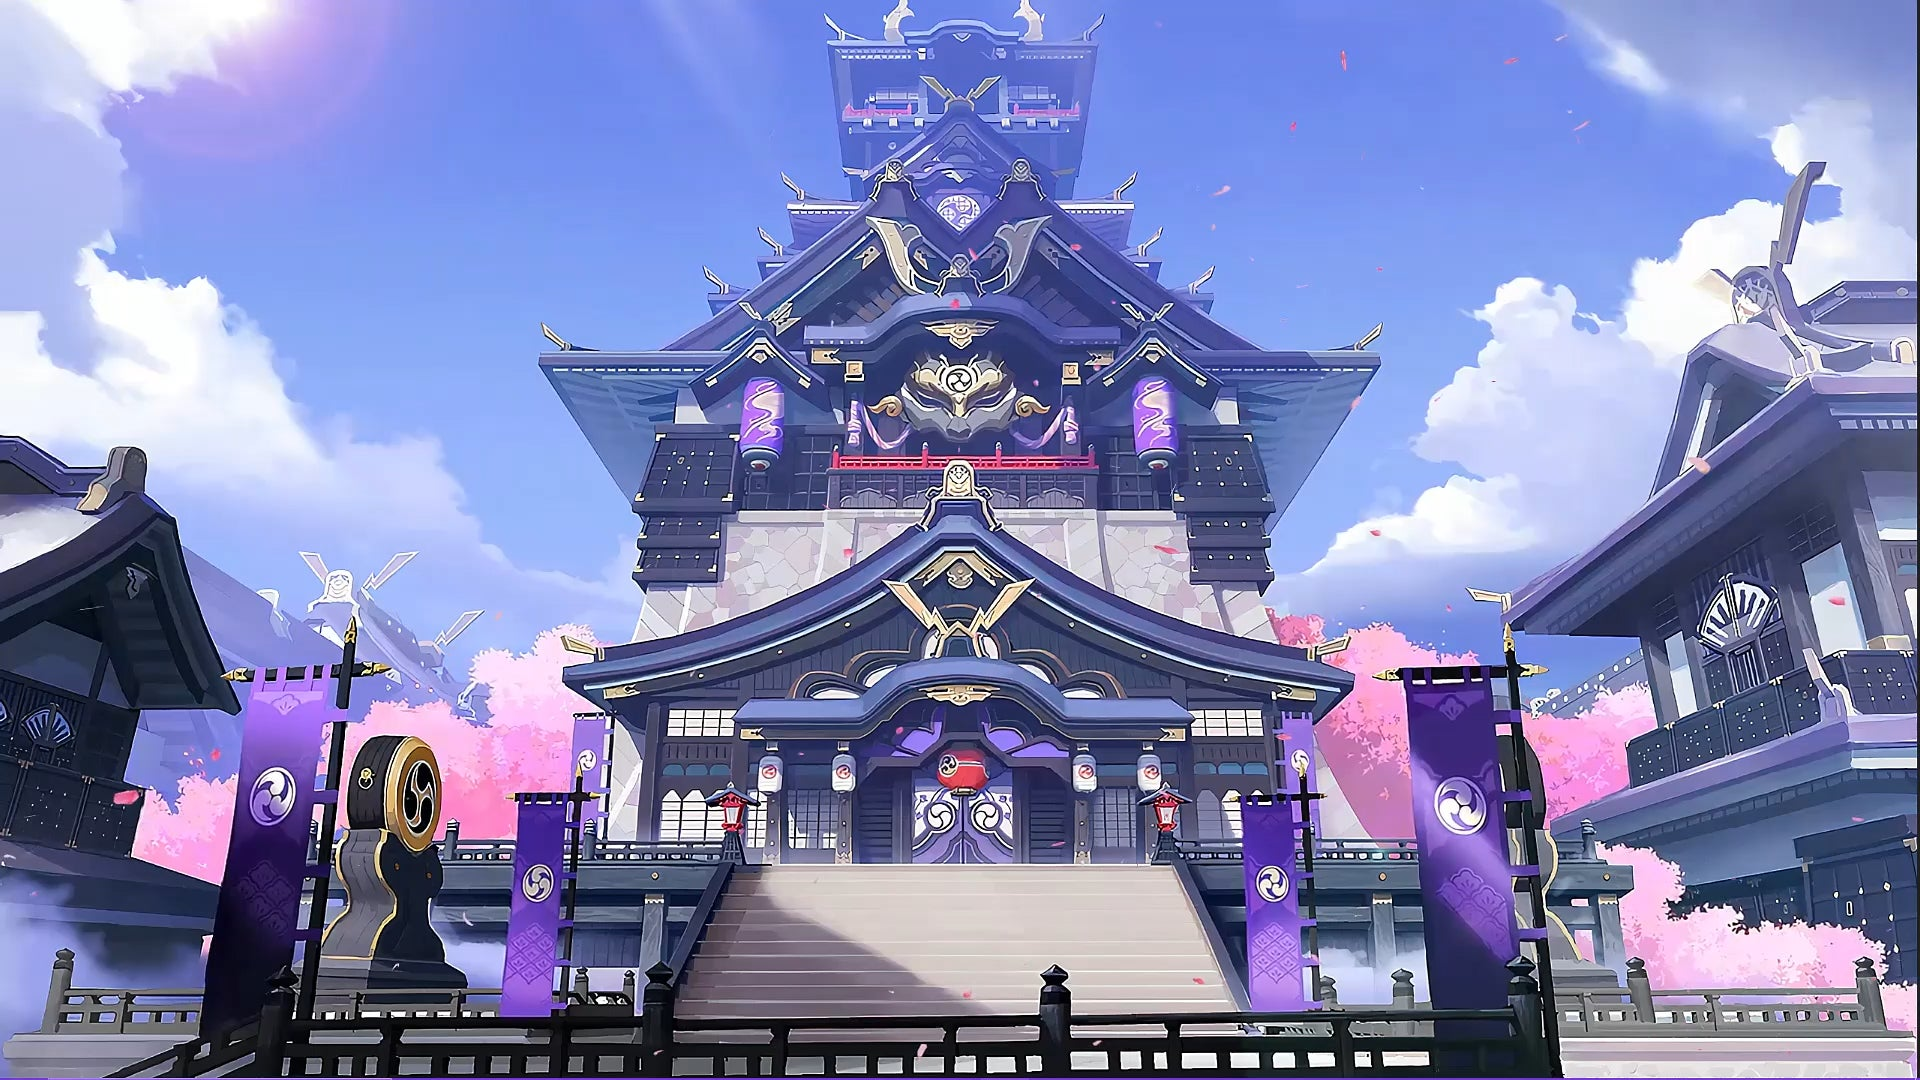
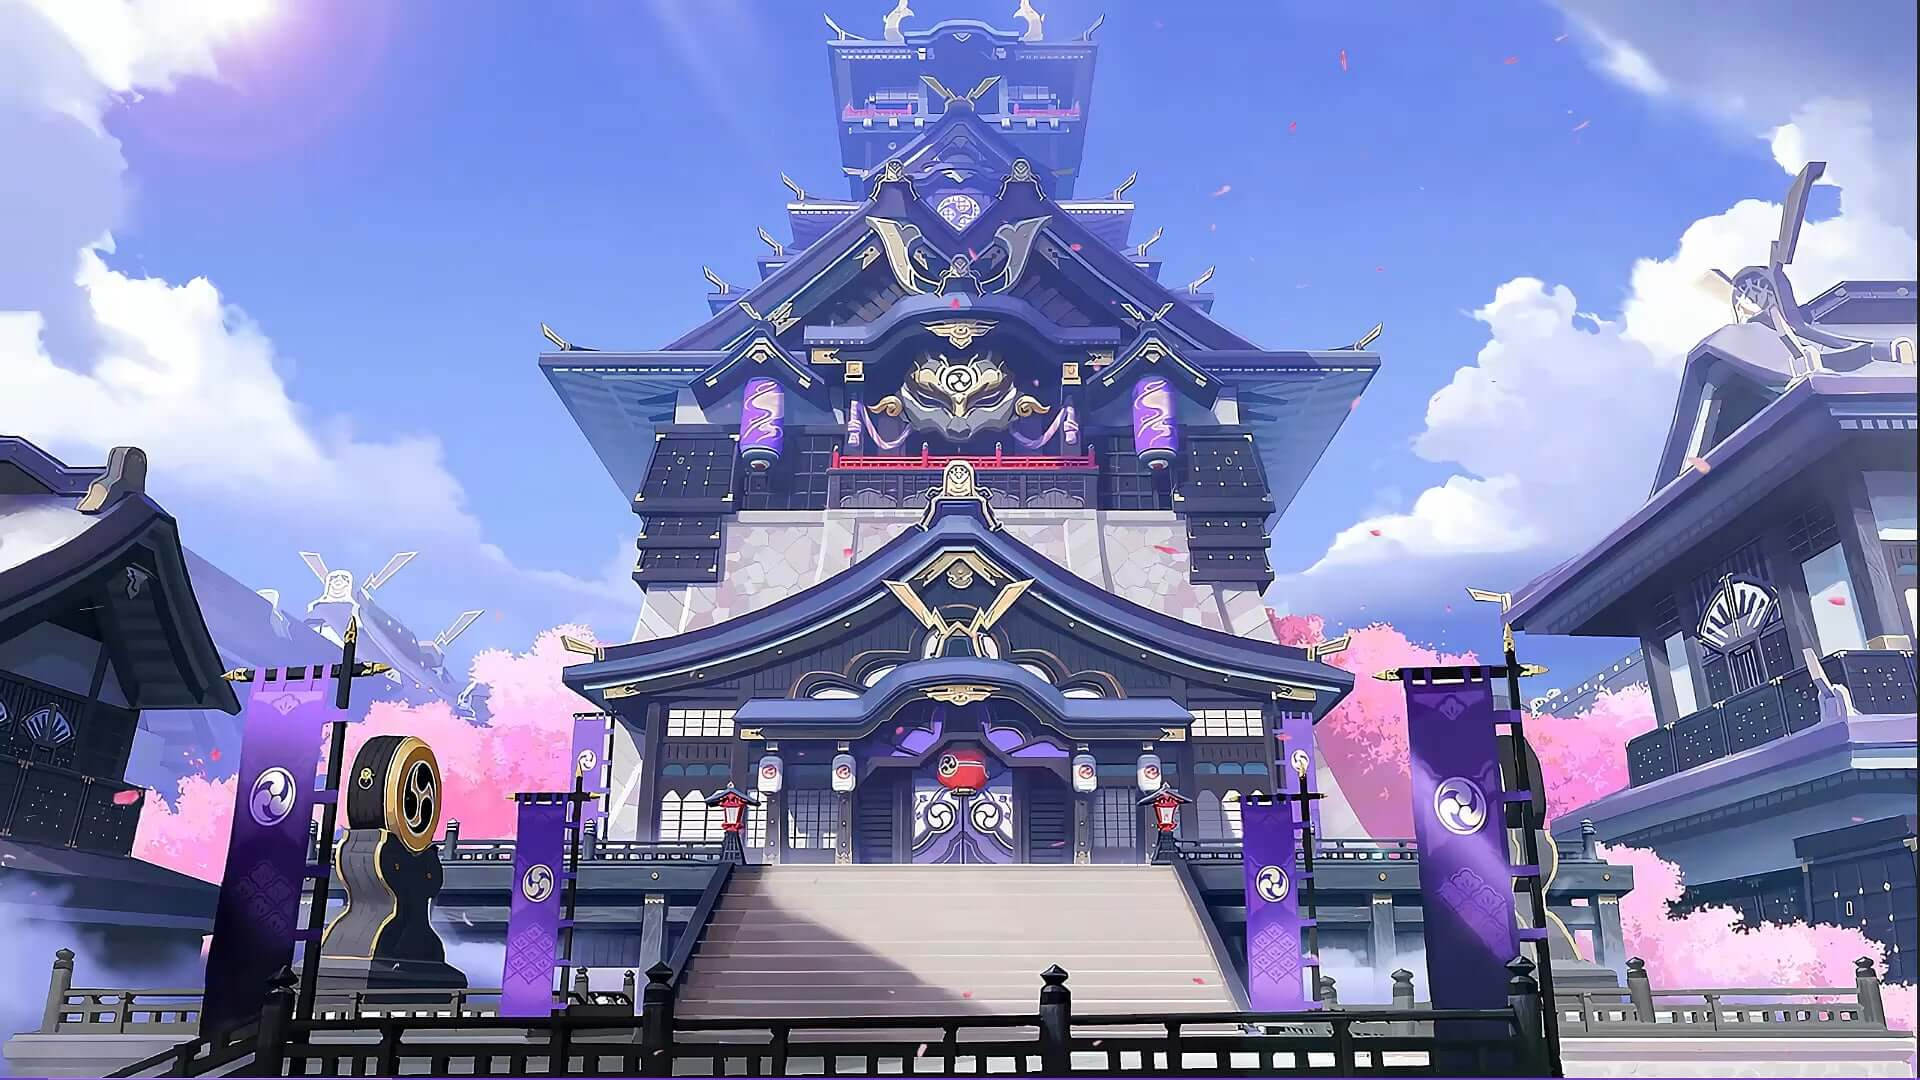
optimized images and added vercel.json

diff --git a/src/components/Home.css b/src/components/Home.css
@@ -24,7 +24,6 @@
 
   box-shadow: 0 2px 5px -1px var(--shadow-color);
   background-color: var(--card-bg);
-  backdrop-filter: blur(2px);
 
   max-width: 600px; 
   transition: all 0.3s ease;

diff --git a/src/components/ProjectContent/Teyvat.css b/src/components/ProjectContent/Teyvat.css
@@ -153,7 +153,7 @@
 
 .sidebar-sections a:hover {
   transform: translateX(10px);
-  backdrop-filter: blur(3px);
+  backdrop-filter: blur(1px);
 }
 
 .sidebar-sections a::after {
